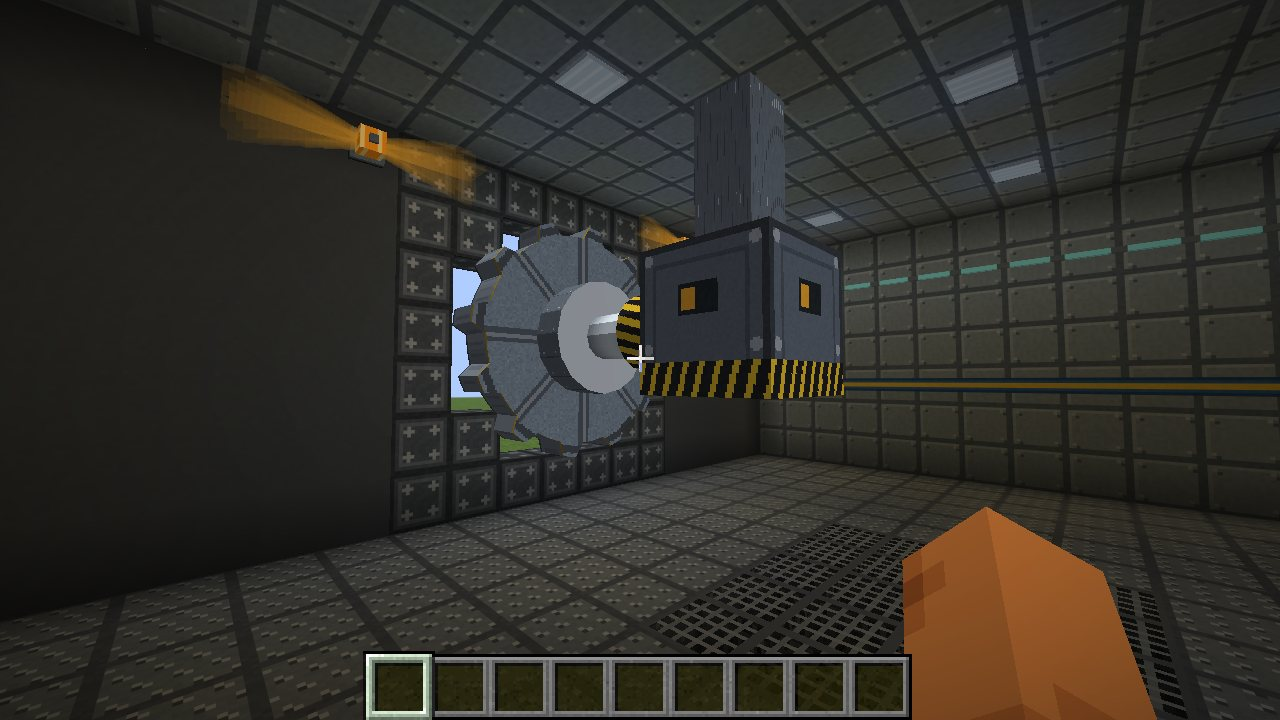
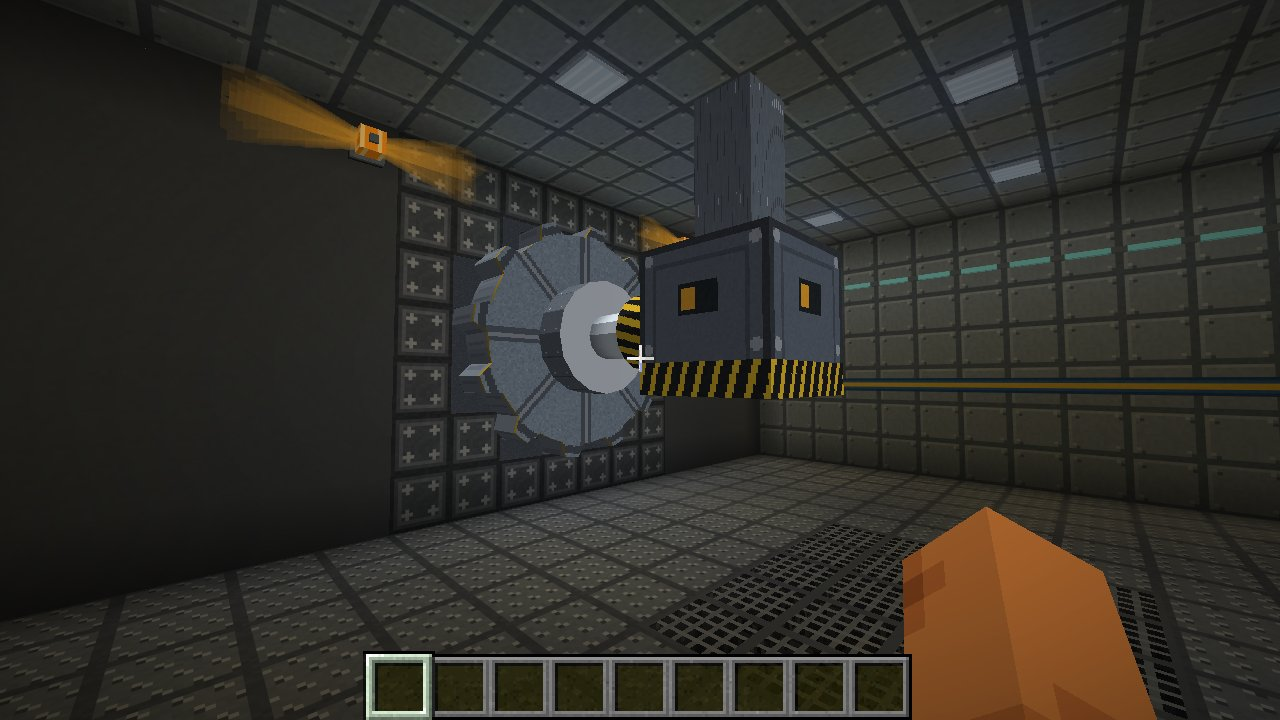
Radiation 1.9.2: the vault door sits flush in its wall
The cog is as thick as the wall, and a steel collar fills the stepped 5x5
opening around it, leaving a cog-shaped aperture the door rolls out of.

Claude-Session: https://claude.ai/code/session_01DwBDyE6DbUGuSpeMrTRP6t

Changed region(s): [[0.3438, 0.3667, 0.5, 0.6417], [0.375, 0.3056, 0.5, 0.4278]]

diff --git a/src/client/java/dev/radiation/client/vault/VaultDoorRenderer.java b/src/client/java/dev/radiation/client/vault/VaultDoorRenderer.java
@@ -38,8 +38,15 @@ public class VaultDoorRenderer implements BlockEntityRenderer<VaultDoorBlockEnti
 	private static final int SAMPLES_PER_TOOTH = 8;
 	private static final float R_BODY = 2.2F;
 	private static final float R_TOOTH = 2.48F;
-	private static final float HALF_THICKNESS = 0.42F;
+	/** Flush with both faces of the wall it closes (a hair behind them, so the teeth don't flicker against the corner blocks). */
+	private static final float HALF_THICKNESS = 0.495F;
 	private static final float[][] PROFILE = profile();
+	/** The collar's steel comes from the frame blocks around the opening. */
+	private static final RenderType COLLAR_TYPE = RenderTypes.entityCutout(RadiationMod.id("textures/block/vault_door_frame.png"));
+	/** Gap between the door and the cog-shaped aperture in the collar. */
+	private static final float COLLAR_CLEARANCE = 1.012F;
+	/** Inner (aperture) and outer (opening outline) points of the collar, by angle. */
+	private static final float[][][] COLLAR = collar();
 	// the screw arm, mounted from the ceiling behind the door
 	private static final float HEAD_IDLE = -2.4F;
 	private static final float HEAD_PARKED = -2.25F;
@@ -88,6 +95,104 @@ public class VaultDoorRenderer implements BlockEntityRenderer<VaultDoorBlockEnti
 			p[i][1] = (float) (Math.sin(a) * r);
 		}
 		return p;
+	}
+
+	/**
+	 * The opening is a 5×5 square without its corners; the door is round. The collar fills the space between: from the
+	 * outline of the opening in to a cog-shaped aperture just larger than the door, so the door sits in the wall with
+	 * no gaps, and rolls out of a cog-shaped hole when it opens.
+	 */
+	private static float[][][] collar() {
+		float[][] outline = {{-1.5F, 2.5F}, {-1.5F, 1.5F}, {-2.5F, 1.5F}, {-2.5F, -1.5F}, {-1.5F, -1.5F}, {-1.5F, -2.5F}, {1.5F, -2.5F}, {1.5F, -1.5F},
+				{2.5F, -1.5F}, {2.5F, 1.5F}, {1.5F, 1.5F}, {1.5F, 2.5F}};
+		int n = PROFILE.length;
+		float[][] aperture = new float[n][2];
+		for (int i = 0; i < n; i++) {
+			aperture[i][0] = PROFILE[i][0] * COLLAR_CLEARANCE;
+			aperture[i][1] = PROFILE[i][1] * COLLAR_CLEARANCE;
+		}
+		// every corner of either outline gets its own ray, so both edges stay exact
+		java.util.TreeSet<Double> angles = new java.util.TreeSet<>();
+		for (float[] p : aperture) {
+			angles.add(norm(Math.atan2(p[1], p[0])));
+		}
+		for (float[] p : outline) {
+			angles.add(norm(Math.atan2(p[1], p[0])));
+		}
+		float[][] inner = new float[angles.size()][];
+		float[][] outer = new float[angles.size()][];
+		int k = 0;
+		for (double a : angles) {
+			double dx = Math.cos(a);
+			double dy = Math.sin(a);
+			double ti = ray(aperture, dx, dy);
+			double to = ray(outline, dx, dy);
+			inner[k] = new float[]{(float) (dx * ti), (float) (dy * ti)};
+			outer[k] = new float[]{(float) (dx * to), (float) (dy * to)};
+			k++;
+		}
+		return new float[][][]{inner, outer};
+	}
+
+	private static double norm(double a) {
+		return a < 0 ? a + 2 * Math.PI : a;
+	}
+
+	/** Distance along a ray from the centre to a closed polygon around it. */
+	private static double ray(float[][] poly, double dx, double dy) {
+		double best = Double.MAX_VALUE;
+		for (int i = 0; i < poly.length; i++) {
+			float[] p = poly[i];
+			float[] q = poly[(i + 1) % poly.length];
+			double ex = q[0] - p[0];
+			double ey = q[1] - p[1];
+			double det = dx * -ey - dy * -ex;
+			if (Math.abs(det) < 1.0E-12) {
+				continue;
+			}
+			double t = (p[0] * -ey - p[1] * -ex) / det;
+			double u = (dx * p[1] - dy * p[0]) / det;
+			if (t > 0 && u >= -1.0E-9 && u <= 1 + 1.0E-9) {
+				best = Math.min(best, t);
+			}
+		}
+		return best;
+	}
+
+	private static void buildCollar(PoseStack.Pose pose, VertexConsumer b, int light) {
+		float[][] in = COLLAR[0];
+		float[][] out = COLLAR[1];
+		int n = in.length;
+		float z = HALF_THICKNESS;
+		// one flat patch of the frame's steel between the bolt heads
+		float u = 0.5F;
+		float v = 0.5F;
+		for (int i = 0; i < n; i++) {
+			int j = (i + 1) % n;
+			float[] a = in[i], a2 = in[j], o = out[i], o2 = out[j];
+			// front, back
+			vertex(b, pose, a[0], a[1], z, u, v, 0, 0, 1, light);
+			vertex(b, pose, o[0], o[1], z, u, v, 0, 0, 1, light);
+			vertex(b, pose, o2[0], o2[1], z, u, v, 0, 0, 1, light);
+			vertex(b, pose, a2[0], a2[1], z, u, v, 0, 0, 1, light);
+			vertex(b, pose, a2[0], a2[1], -z, u, v, 0, 0, -1, light);
+			vertex(b, pose, o2[0], o2[1], -z, u, v, 0, 0, -1, light);
+			vertex(b, pose, o[0], o[1], -z, u, v, 0, 0, -1, light);
+			vertex(b, pose, a[0], a[1], -z, u, v, 0, 0, -1, light);
+			// the aperture's edge, facing the middle
+			float nx = -(a2[1] - a[1]);
+			float ny = a2[0] - a[0];
+			float len = Mth.sqrt(nx * nx + ny * ny);
+			if (len < 1.0E-6F) {
+				continue;
+			}
+			nx /= len;
+			ny /= len;
+			vertex(b, pose, a[0], a[1], -z, 0.25F, v, nx, ny, 0, light);
+			vertex(b, pose, a[0], a[1], z, 0.25F, v, nx, ny, 0, light);
+			vertex(b, pose, a2[0], a2[1], z, 0.25F, v, nx, ny, 0, light);
+			vertex(b, pose, a2[0], a2[1], -z, 0.25F, v, nx, ny, 0, light);
+		}
 	}
 
 	@Override
@@ -148,6 +253,7 @@ public class VaultDoorRenderer implements BlockEntityRenderer<VaultDoorBlockEnti
 		float headFront = state.headFront;
 		float screwAngle = state.screwAngle;
 		collector.submitCustomGeometry(poseStack, RENDER_TYPE, (pose, buffer) -> buildArm(pose, buffer, armLight, headFront, screwAngle));
+		collector.submitCustomGeometry(poseStack, COLLAR_TYPE, (pose, buffer) -> buildCollar(pose, buffer, armLight));
 		float side = state.rollLeft ? 1 : -1;
 		poseStack.translate(side * state.roll, 0, -state.pull);
 		poseStack.rotate(Axis.ZP.rotation(-side * state.roll / VaultDoorBlockEntity.RADIUS));

diff --git a/README.md b/README.md
@@ -14,7 +14,7 @@ Online handbook: https://mchamradio.antwire.net/handbook/radiation/
    as the mod loader (any recent loader version, at least 0.19.5).
 2. Open the instance's **Edit → Mods** page and click **Download mods**. Search for **Fabric API** and
    install it. Radiation needs it.
-3. Click **Add file** and pick `radiation-1.9.1.jar`, or drop the jar onto the mod list.
+3. Click **Add file** and pick `radiation-1.9.2.jar`, or drop the jar onto the mod list.
 4. Start the instance.
 
 For a multiplayer server, put the same jar plus Fabric API into the server's `mods` folder. Every
@@ -63,7 +63,7 @@ Version 1.2.0 adds everything you need to build a Fallout-style fallout shelter.
 
 | Block | What it does |
 |-------|--------------|
-| **Vault Door** | The big cog door for a round 5×5 opening. Place it in the middle of the opening, facing the outside. A **screw arm** behind it extends, screws into the cog, pulls it back into the vault and lets go; the cog then rolls aside. Closing runs the other way. An alarm klaxon sounds the whole time. It is blast-proof. |
+| **Vault Door** | The big cog door for a round 5×5 opening. Place it in the middle of the opening, facing the outside. It sits flush with the wall on both sides, in a steel collar that fills the opening around the cog. A **screw arm** behind it extends, screws into the cog, pulls it back into the vault and lets go; the cog then rolls aside. Closing runs the other way. An alarm klaxon sounds the whole time. It is blast-proof. |
 | **Vault Door Console** | A pedestal with a big button: opens or closes the nearest vault door within 16 blocks. A vault door also toggles on a redstone pulse. |
 | **Vault Alarm Light** | A rotating amber warning light. It spins and lights up while a vault door within 16 blocks opens or closes. Mount it on any wall, floor or ceiling. |
 | **Vault Sliding Door** | A two-block steel door that slides up into the wall above it. Doors standing side by side in the same wall open together, so you can build wider doorways. Opens by hand or redstone. |
@@ -377,7 +377,7 @@ Requires JDK 25.
 ./gradlew build
 ```
 
-The mod jar ends up in `build/libs/radiation-1.9.1.jar`. `./gradlew runClient` starts a development
+The mod jar ends up in `build/libs/radiation-1.9.2.jar`. `./gradlew runClient` starts a development
 client with the mod loaded. `./gradlew runClientGameTest` runs the vault screenshot tour,
 `./gradlew runClientGameTest -Pscene=ecology` the land, crop and shielding test.
 `./gradlew runClientGameTest -Pscene=food` the contaminated food test (harvest, bread, meat, furnace, storage, eating, tooltips).
